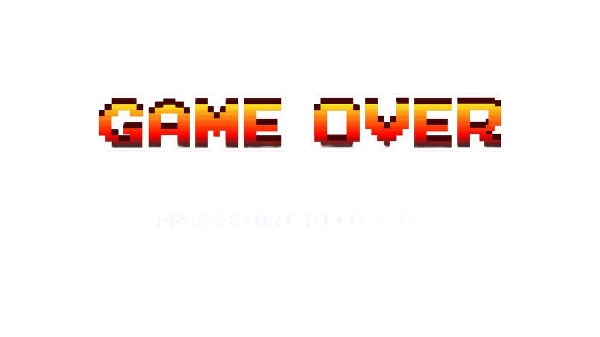
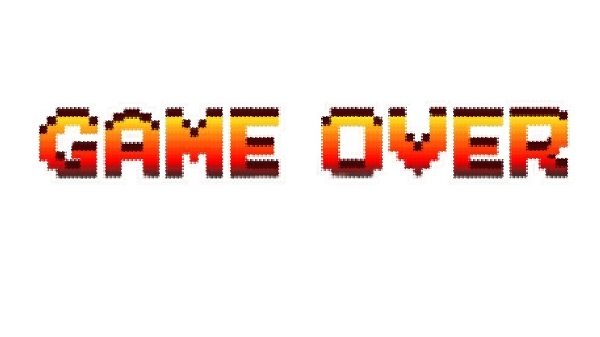
wtye

Changed region(s): [[0.51, 0.2671, 0.96, 0.5341], [0.06, 0.2671, 0.48, 0.5341]]

diff --git a/src/Controler.cpp b/src/Controler.cpp
@@ -61,19 +61,18 @@ bool Controler::exceptionManager()
 {
 	if (Robot::getInstance().isWin())
 	{
+		dataTexture::getInstance().printEventTexture(m_window, "levelUp.png");
 		SoundManager::getInstance().playWinSound();
+		std::this_thread::sleep_for(std::chrono::seconds(2));
 		m_window.close();
 		m_dataLevel.clear();
+		SoundManager::getInstance().playBackgroundMusic();
 	}
 	if (Robot::getInstance().isDead())
 	{
-//		sf::Sprite sprite;
-//		sprite.setTexture(dataTexture::getInstance().getGameOverTexture());
-//		sprite.setPosition(0,0);
-//		m_window.draw(dataTexture::getInstance().getGameOverTexture({ (float)m_window.getSize().x - 400, (float)m_window.getSize().y - 500}));
-//		m_window.draw(sprite);
-//		m_window.display();
-//		std::this_thread::sleep_for(std::chrono::seconds(5));
+		SoundManager::getInstance().playLoseSound();
+		dataTexture::getInstance().printEventTexture(m_window, "gameOver.png");
+		std::this_thread::sleep_for(std::chrono::seconds(5));
 		m_window.close();
 		return true;
 	}

diff --git a/src/dataTexture.cpp b/src/dataTexture.cpp
@@ -12,13 +12,16 @@ dataTexture::dataTexture()
 	loadTexture();
 }
 //==============================
-sf::Texture dataTexture::getGameOverTexture()
+void dataTexture::printEventTexture(sf::RenderWindow& window, std::string fileName)
 {
-//	sf::Sprite sprite;
-	texture.loadFromFile("gameOver.png");
-//	sprite.setTexture(texture);
-//	sprite.setPosition(positin);
-	return texture;
+	window.clear(sf::Color::Yellow);
+	sf::Texture texture;
+	sf::Sprite sprite;
+	texture.loadFromFile(fileName);
+	sprite.setTexture(texture);
+	sprite.setPosition(window.getSize().x / 2 - sprite.getGlobalBounds().width / 2, window.getSize().y / 2 - sprite.getGlobalBounds().height / 2);
+	window.draw(sprite);
+	window.display();
 }
 //=============================
 sf::Texture& dataTexture::getTexture(const char ch)

diff --git a/include/LoadFile.h b/include/LoadFile.h
@@ -12,11 +12,13 @@ public:
     static LoadFile& getInstance();
     LoadFile& operator=(LoadFile& other) = delete;
     LoadFile(LoadFile& other) = delete;
+
     char getFromFile();
-    sf::Vector2f getPosition();
     bool fillData();
+    bool isEndOfFile()const { return m_endOfFile; }
 
     std::vector<int>& getLevelInfo()  { return m_levelInfo; }
+    sf::Vector2f getPosition();
     sf::Vector2f getSize() const;
     sf::Vector2f getLegalGiftLoc(bool& isHidden);
 
@@ -27,6 +29,7 @@ private:
     int m_col = 0;
     int m_row = 0;
     int m_sizeCol;
+    bool m_endOfFile = false;
     std::ifstream m_file;
     std::vector <std::string> m_data;
     std::vector <int> m_levelInfo;

diff --git a/src/SoundManager.cpp b/src/SoundManager.cpp
@@ -9,7 +9,7 @@ SoundManager& SoundManager::getInstance() {
 //======================================
 SoundManager::SoundManager() {
     loadSound(m_winBuffer, m_winSound, "win.wav");
-//    loadSound(m_loseBuffer, m_loseSound, "lose.wav");
+    loadSound(m_loseBuffer, m_loseSound, "lose.wav");
     loadSound(m_exlosionBuffer, m_exlosionSound, "exlosion.wav");
     loadSound(m_giftBuffer, m_giftSound, "gift.wav");
     loadSound(m_startLevelBuffer, m_startLevelSound, "startLevel.wav");

diff --git a/include/dataTexture.h b/include/dataTexture.h
@@ -11,12 +11,10 @@ public:
 	dataTexture& operator=(dataTexture& other) = delete;
 	dataTexture(dataTexture& other) = delete;
 
-	sf::Texture getGameOverTexture();
+	void printEventTexture(sf::RenderWindow& window, std::string fileName);
 	sf::Texture& getTexture(const char ch); 
 
 private:
-	sf::Texture texture;
-
 	dataTexture();
 	void poshTexture(std::string fileName,char type);
 	void loadTexture();

diff --git a/src/LoadFile.cpp b/src/LoadFile.cpp
@@ -22,6 +22,8 @@ bool LoadFile::fillData()
     while (std::getline(m_file, line) && !isdigit(line[0]))
         m_data.push_back(line);
 
+    m_endOfFile = true;
+
     if (line.empty()) {
         m_file.clear(); 
         m_file.seekg(0); 
